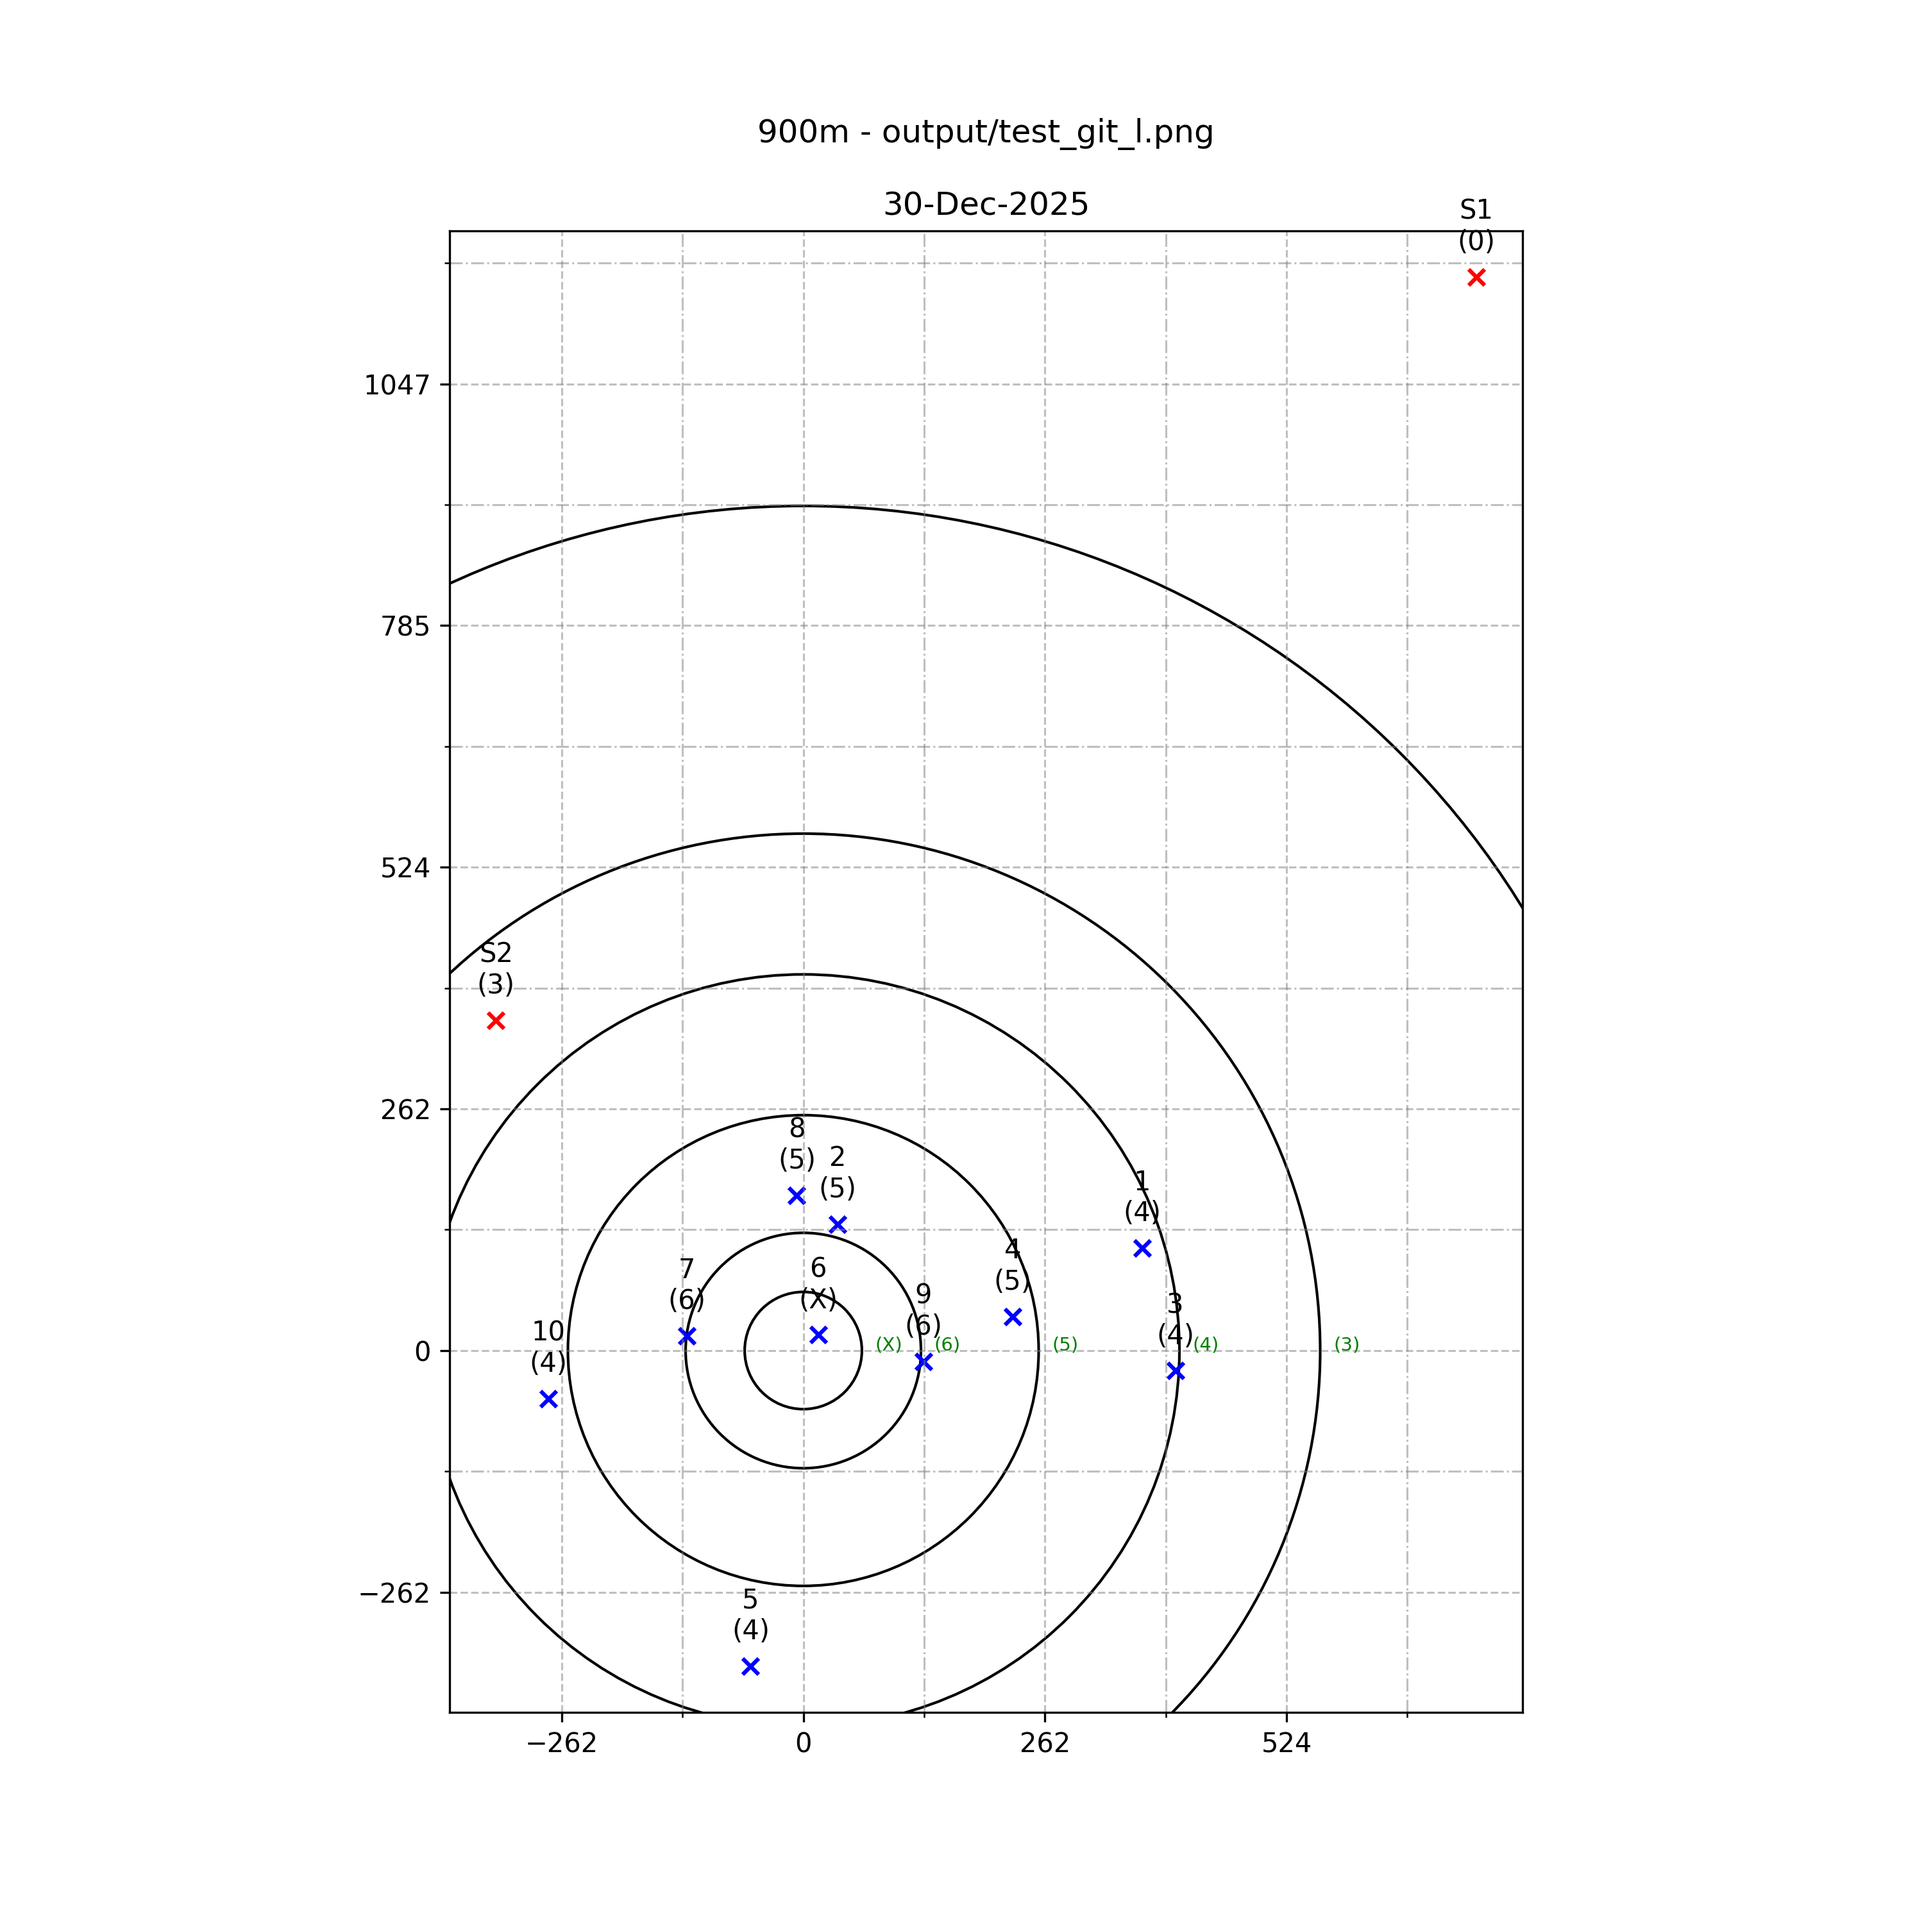
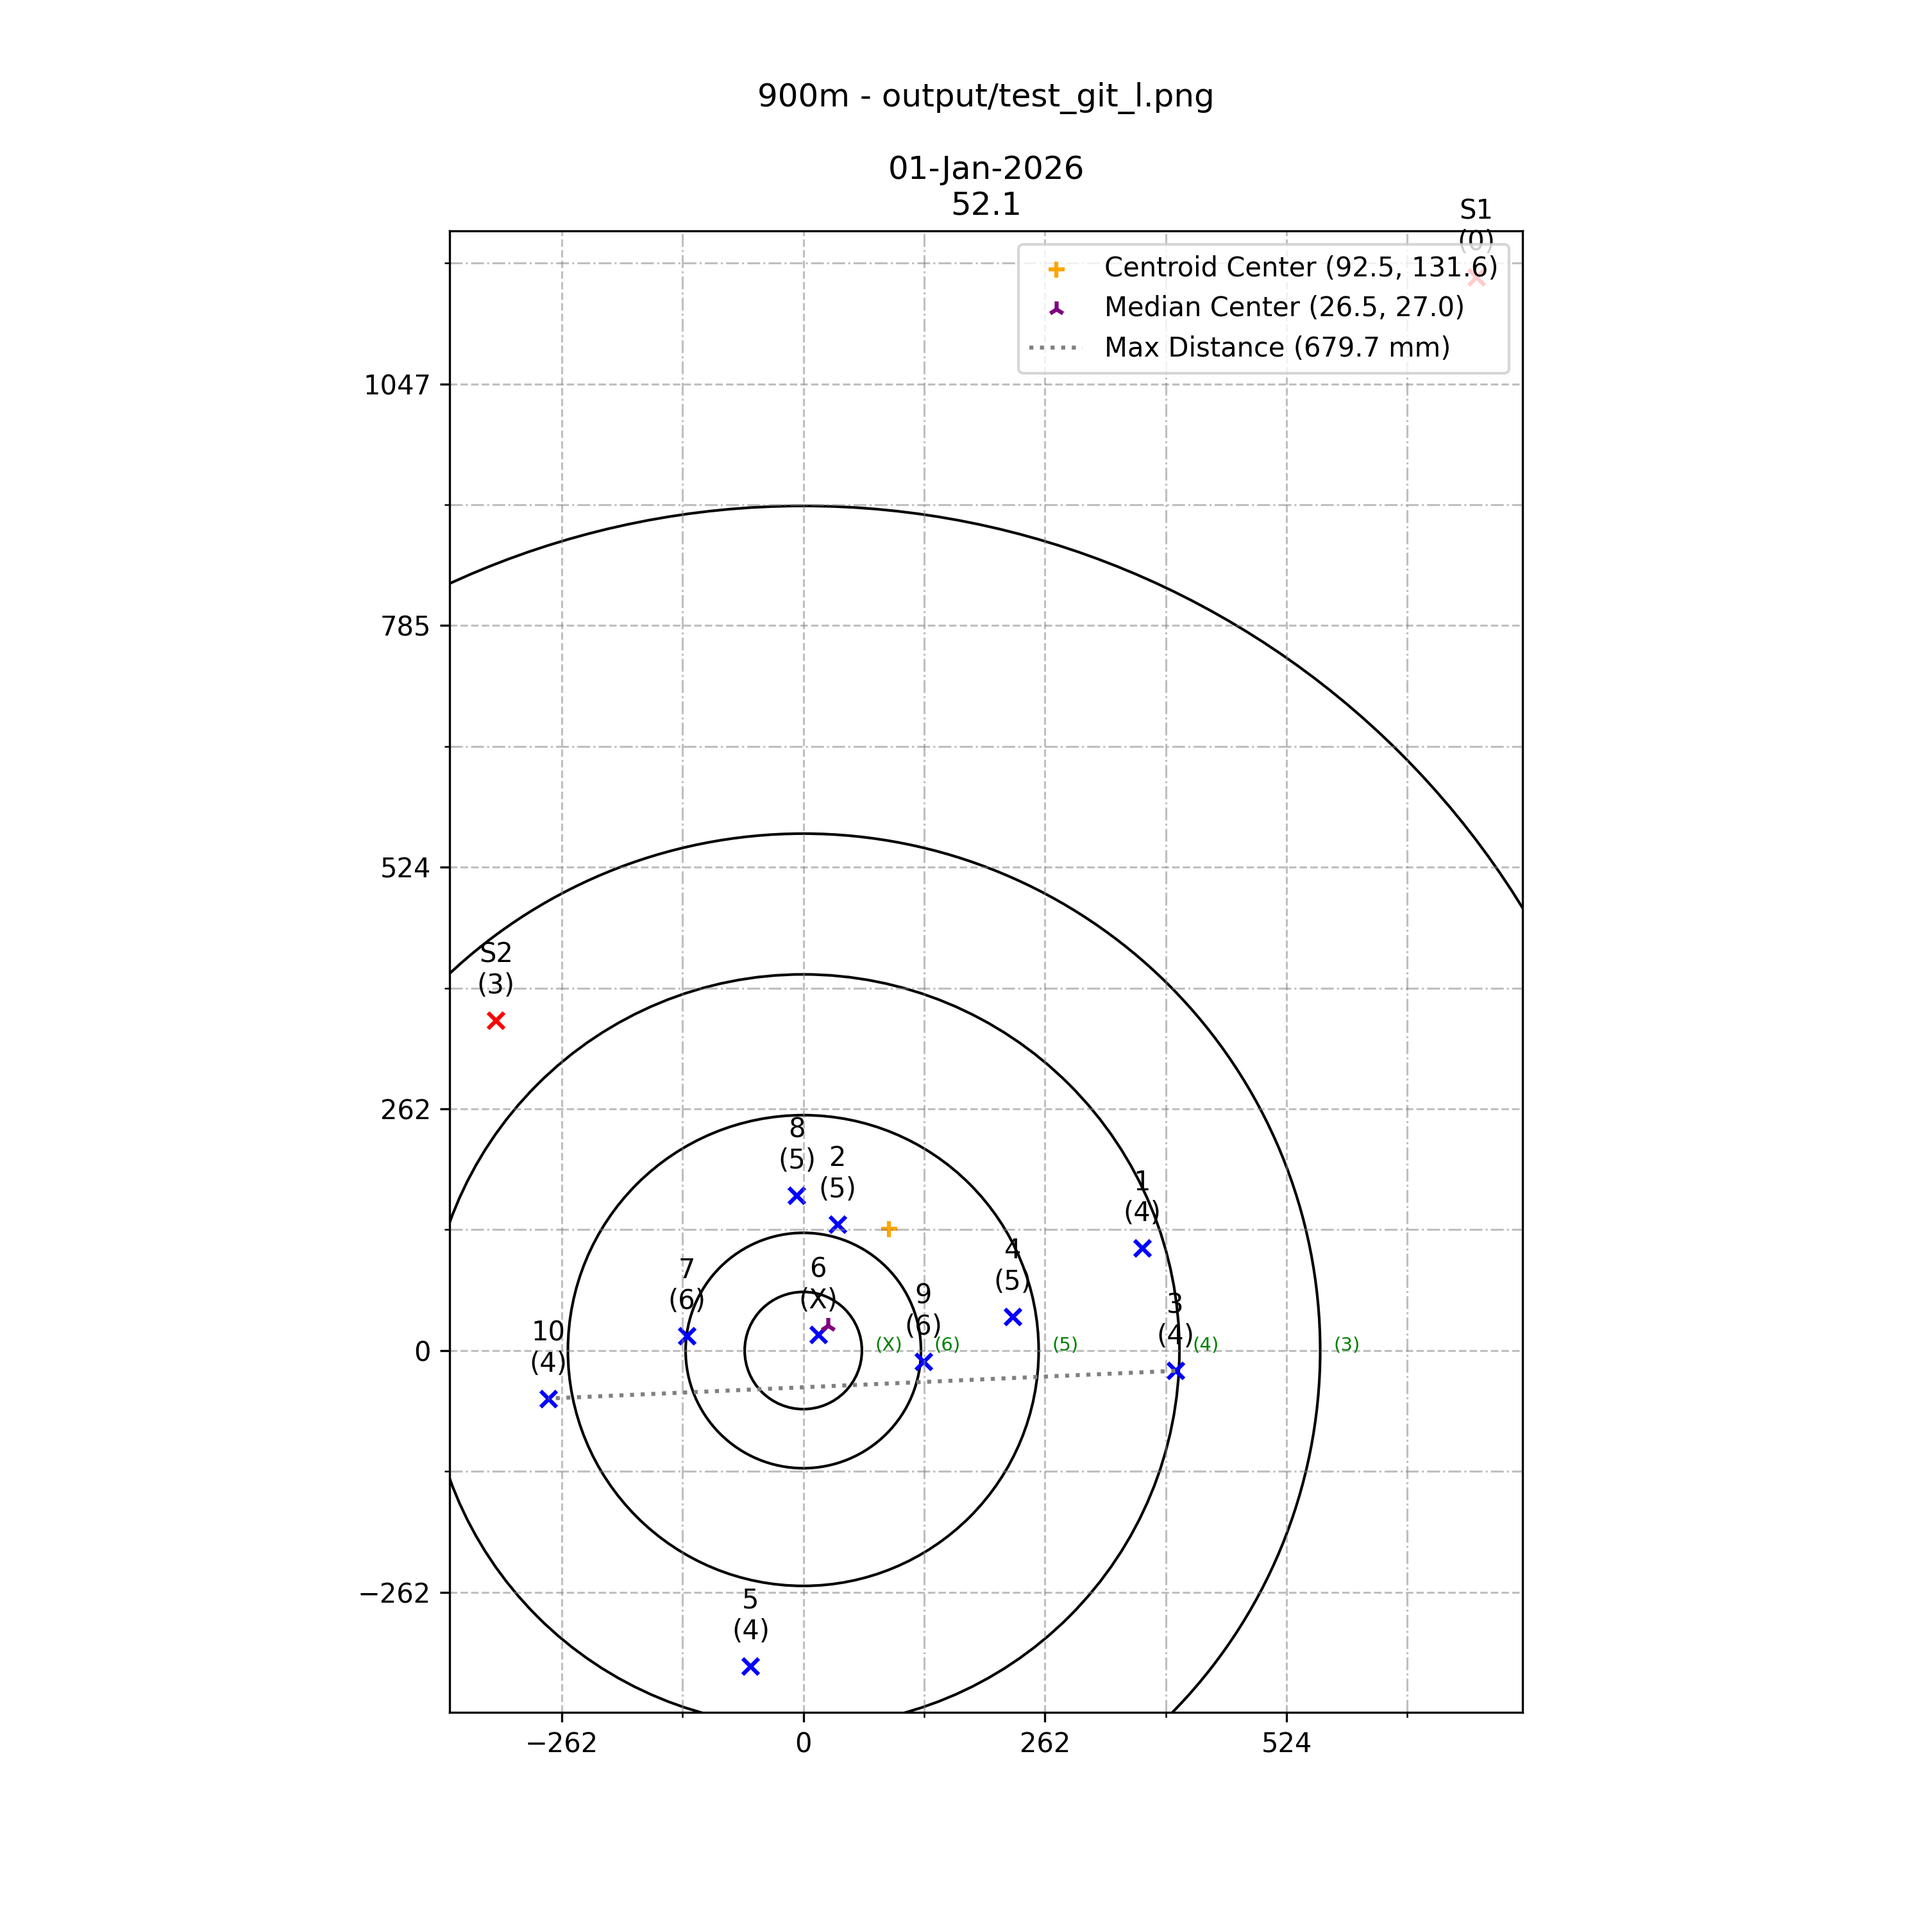
refactored the plotting functions to improve code readability and maintainability.

Changed region(s): [[0.465, 0.031, 0.775, 0.186], [0.403, 0.031, 0.434, 0.093]]

diff --git a/pyPlotShotMarker.py b/pyPlotShotMarker.py
@@ -1,24 +1,81 @@
+from dataclasses import dataclass
 from datetime import date
+from typing import Dict, Tuple, Optional
+
 import argparse
 import pandas as pd
 import matplotlib.pyplot as plt
 from matplotlib.ticker import MultipleLocator
 from matplotlib.patches import Circle
+
 import targets
 
 
-def save_plot(df, name, target, moa, distance, x, y):
-    # Check if the DataFrame is empty aka no left shooter
-    if df.empty:
-        return
-    _, ax = plt.subplots(figsize=(10, 10))
+@dataclass
+class PlotConfig:
+    target: Dict[str, float]
+    moa: float
+
+
+@dataclass
+class CLIArgs:
+    filename: str
+    prefix: str
+    distance: int
+    x: int = 0
+    y: int = 0
+
+
+def parse_args() -> CLIArgs:
+    parser = argparse.ArgumentParser()
+    parser.add_argument("filename", help="The csv file to process")
+    parser.add_argument("--prefix", required=True, help="Prefix for the output files")
+    parser.add_argument("--distance", type=int, required=True, help="Distance in meters")
+    parser.add_argument("--x", type=int, default=0, help="X offset in mm")
+    parser.add_argument("--y", type=int, default=0, help="Y offset in mm")
+    args = parser.parse_args()
+    return CLIArgs(
+        filename=args.filename,
+        prefix=args.prefix,
+        distance=args.distance,
+        x=args.x,
+        y=args.y,
+    )
+
+
+def load_dataframe(filename: str) -> pd.DataFrame:
+    return pd.read_csv(filename)
+
+
+def split_by_id(df: pd.DataFrame) -> Tuple[pd.DataFrame, pd.DataFrame, pd.DataFrame]:
+    left_df = df[df["id"].str.startswith("L")]
+    middle_df = df[df["id"].str.startswith("M")]
+    right_df = df[df["id"].str.startswith("R")]
+    return left_df, middle_df, right_df
+
+
+def dist_config(distance: int) -> Optional[PlotConfig]:
+    mapping = {
+        300: PlotConfig(target=targets.target_300m, moa=targets.moa_300m),
+        500: PlotConfig(target=targets.target_500m, moa=targets.moa_500m),
+        600: PlotConfig(target=targets.target_600m, moa=targets.moa_600m),
+        700: PlotConfig(target=targets.target_700m, moa=targets.moa_700m),
+        800: PlotConfig(target=targets.target_800m, moa=targets.moa_800m),
+        900: PlotConfig(target=targets.target_900m, moa=targets.mmoa_900m),
+    }
+    return mapping.get(distance)
+
+
+def configure_axes(ax, df: pd.DataFrame, distance: int, moa: float, x: int, y: int) -> None:
     ax.set_aspect("equal")
+
     if x == 0:
         x_max_value = 300 if not df["x mm"].max() > 300 else df["x mm"].max()
         x_min_value = -300 if not df["x mm"].min() < -300 else df["x mm"].min()
     else:
         x_max_value = 300
         x_min_value = -300
+
     if y == 0:
         y_max_value = 300 if not df["y mm"].max() > 300 else df["y mm"].max()
         y_min_value = -300 if not df["y mm"].min() < -300 else df["y mm"].min()
@@ -29,6 +86,37 @@ def save_plot(df, name, target, moa, distance, x, y):
     ax.set_xlim(x_min_value - 50, x_max_value + 50)
     ax.set_ylim(y_min_value - 50, y_max_value + 50)
 
+    for label, radius in distance_label_colors_and_radii(df, moas=None):  # helper to keep function small
+        ring = Circle((0, 0), radius, color="black", fill=False, linewidth=1)
+        ax.add_patch(ring)
+        ax.annotate(
+            label,
+            (radius, 0),
+            xytext=(5, 0),
+            ha="left",
+            color="green",
+            textcoords="offset points",
+            fontsize=7,
+        )
+
+    major_spacing_xy = moa  # Major grid lines every moa units on x/y
+    minor_spacing_xy = moa * 0.5
+    ax.xaxis.set_major_locator(MultipleLocator(major_spacing_xy))
+    ax.xaxis.set_minor_locator(MultipleLocator(minor_spacing_xy))
+    ax.yaxis.set_major_locator(MultipleLocator(major_spacing_xy))
+    ax.yaxis.set_minor_locator(MultipleLocator(minor_spacing_xy))
+    ax.grid(which="major", linestyle="--", linewidth="0.75", alpha=0.5, color="gray")
+    ax.grid(which="minor", linestyle="-.", linewidth="0.75", alpha=0.5, color="gray")
+
+
+def distance_label_colors_and_radii(_df: pd.DataFrame, moas=None):
+    # This is a placeholder if you want to compute ring labels differently.
+    # For now, return a static set to keep compatibility.
+    return [(str(k), k) for k in []]
+
+
+def render_plot(ax, df: pd.DataFrame, target: Dict[str, float], moa: float, distance: int, name: str, x: int, y: int) -> None:
+    # Add target rings and annotations
     for label, radius in target.items():
         ring = Circle((0, 0), radius, color="black", fill=False, linewidth=1)
         ax.add_patch(ring)
@@ -42,99 +130,88 @@ def save_plot(df, name, target, moa, distance, x, y):
             fontsize=7,
         )
 
-    major_spacing_xy = moa  # Major grid lines every 2 units on the x-axis
-    minor_spacing_xy = moa * 0.5  # Minor grid lines every 0.5 units on the x-axis
-    ax.xaxis.set_major_locator(MultipleLocator(major_spacing_xy))
-    ax.xaxis.set_minor_locator(MultipleLocator(minor_spacing_xy))
-    ax.yaxis.set_major_locator(MultipleLocator(major_spacing_xy))
-    ax.yaxis.set_minor_locator(MultipleLocator(minor_spacing_xy))
-    ax.grid(which="major", linestyle="--", linewidth="0.75", alpha=0.5, color="gray")
-    ax.grid(which="minor", linestyle="-.", linewidth="0.75", alpha=0.5, color="gray")
+    configure_axes(ax, df, distance, moa, x, y)
+
     today = date.today().strftime("%d-%b-%Y")
-    ax.set_title(f"{distance}m - {name}\n\n{today}")
+    countX = df['score'].value_counts().to_dict().get('X', 0)
+    filtered_values = df[df['score'] != 'X']['score']
+    score = filtered_values.astype(int).sum()
+    score += countX * 6
+
+    ax.set_title(f"{distance}m - {name}\n\n{today}\n{score}.{countX}")
 
     for _, row in df.iterrows():
-        x, y = row["x mm"], row["y mm"]
+        xval, yval = row["x mm"], row["y mm"]
         s = row["id"].replace("L", "").replace("M", "").replace("R", "")
         label = s + "\n(" + row["score"] + ")"
-        if "S" in label:
-            colour = "red"
-        else:
-            colour = "blue"
-        plt.scatter(x, y, color=colour, marker="x", label="Point A")
-        ax.annotate(
-            label, (x, y), textcoords="offset points", xytext=(0, 10), ha="center"
+        colour = "red" if "S" in label else "blue"
+        plt.scatter(xval, yval, color=colour, marker="x", label="")
+        ax.annotate(label, (xval, yval), textcoords="offset points", xytext=(0, 10), ha="center")
+
+    # Centroid / Median / Max distance visuals
+    centroid_x = df["x mm"].mean()
+    centroid_y = df["y mm"].mean()
+    plt.scatter(centroid_x, centroid_y, color="orange", marker="+", label=f"Centroid Center ({centroid_x:.1f}, {centroid_y:.1f})")
+
+    median_x = df["x mm"].median()
+    median_y = df["y mm"].median()
+    plt.scatter(median_x, median_y, color="purple", marker="2", label=f"Median Center ({median_x:.1f}, {median_y:.1f})")
+
+    max_distance = 0
+    furthest_pair = None
+    for i, row1 in df.iterrows():
+        for j, row2 in df.iterrows():
+            if i >= j:
+                continue
+            dist = ((row1["x mm"] - row2["x mm"]) ** 2 + (row1["y mm"] - row2["y mm"]) ** 2) ** 0.5
+            if 'S' in row1['id'] or 'S' in row2['id']:
+                break
+            if dist > max_distance:
+                max_distance = dist
+                furthest_pair = (row1, row2)
+
+    if furthest_pair:
+        row1, row2 = furthest_pair
+        plt.plot(
+            [row1["x mm"], row2["x mm"]],
+            [row1["y mm"], row2["y mm"]],
+            color="grey",
+            linestyle=":",
+            label=f"Max Distance ({max_distance:.1f} mm)",
         )
 
+    plt.legend(loc="upper right")
+
+
+def save_plot(df: pd.DataFrame, name: str, target: Dict[str, float], moa: float, distance: int, x: int, y: int) -> None:
+    if df.empty:
+        return
+
+    fig, ax = plt.subplots(figsize=(10, 10))
+    plt.switch_backend("Agg")
+    ax.set_aspect("equal")
+
+    render_plot(ax, df, target, moa, distance, name, x, y)
+
     plt.savefig(name, dpi=300)
+    plt.close(fig)
 
 
 def main():
-    parser = argparse.ArgumentParser()
-    parser.add_argument("filename", help="The csv file to process")
-    parser.add_argument("--prefix", required=True, help="Prefix for the output files")
-    parser.add_argument(
-        "--distance", type=int, required=True, help="Distance in meters"
-    )
-    parser.add_argument("--x", type=int, help="X offset in mm", default=0)
-    parser.add_argument("--y", type=int, help="Y offset in mm", default=0)
-    args = parser.parse_args()
+    args = parse_args()
+    cfg = dist_config(args.distance)
+    if cfg is None:
+        print("Unsupported distance:", args.distance)
+        return
 
-    match args.distance:
-        case 300:
-            target = targets.target_300m
-            moa = targets.moa_300m
-        case 500:
-            target = targets.target_500m
-            moa = targets.moa_500m
-        case 600:
-            target = targets.target_600m
-            moa = targets.moa_600m
-        case 700:
-            target = targets.target_700m
-            moa = targets.moa_700m
-        case 800:
-            target = targets.target_800m
-            moa = targets.moa_800m
-        case 900:
-            target = targets.target_900m
-            moa = targets.mmoa_900m
-        case _:
-            print("Unsupported distance:", args.distance)
-            return
+    df = load_dataframe(args.filename)
+    left_df, middle_df, right_df = split_by_id(df)
 
-    df = pd.read_csv(args.filename)
-    left_df = df[df["id"].str.startswith("L")]
-    middle_df = df[df["id"].str.startswith("M")]
-    right_df = df[df["id"].str.startswith("R")]
+    out_base = f"output/{args.prefix}"
 
-    save_plot(
-        left_df,
-        "output/" + args.prefix + "_l.png",
-        target,
-        moa,
-        args.distance,
-        args.x,
-        args.y,
-    )
-    save_plot(
-        middle_df,
-        "output/" + args.prefix + "_m.png",
-        target,
-        moa,
-        args.distance,
-        args.x,
-        args.y,
-    )
-    save_plot(
-        right_df,
-        "output/" + args.prefix + "_r.png",
-        target,
-        moa,
-        args.distance,
-        args.x,
-        args.y,
-    )
+    save_plot(left_df, out_base + "_l.png", cfg.target, cfg.moa, args.distance, args.x, args.y)
+    save_plot(middle_df, out_base + "_m.png", cfg.target, cfg.moa, args.distance, args.x, args.y)
+    save_plot(right_df, out_base + "_r.png", cfg.target, cfg.moa, args.distance, args.x, args.y)
 
 
 if __name__ == "__main__":
